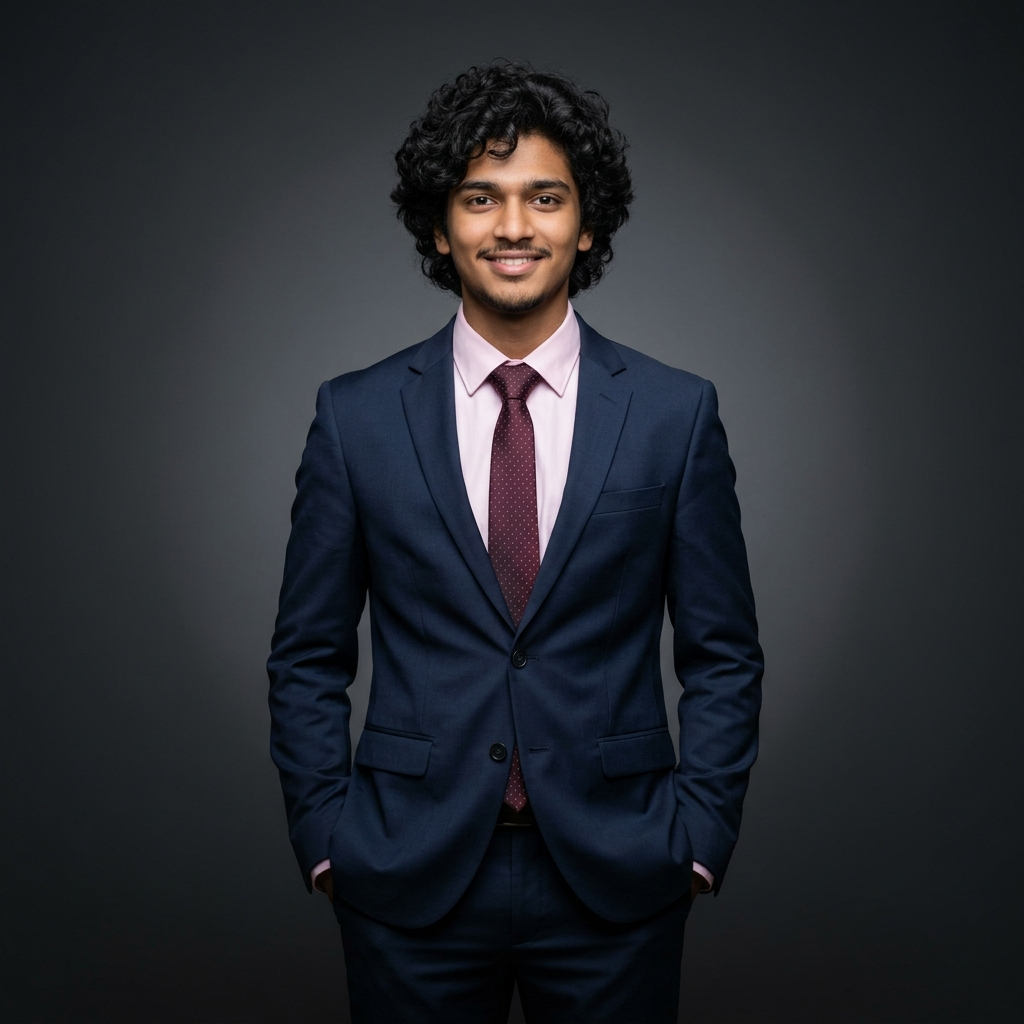
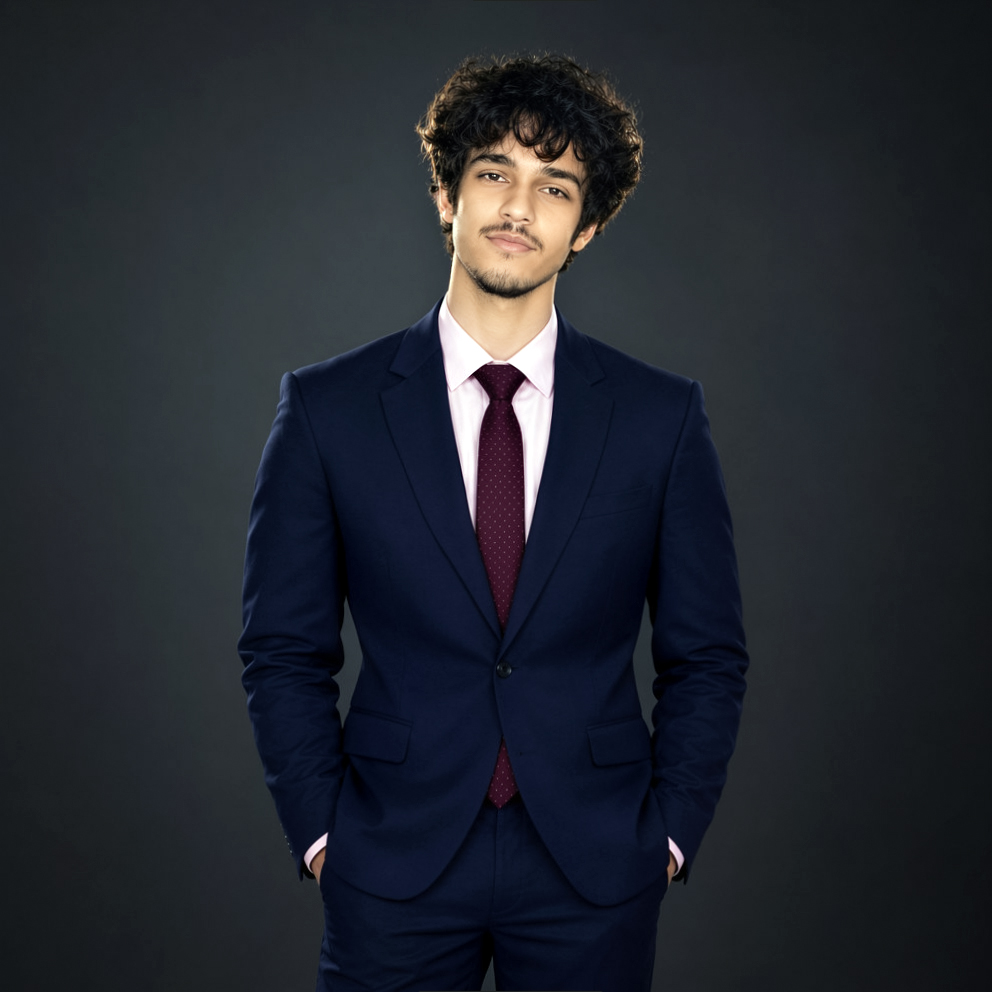
Deploy updated portfolio on GitHub Pages

diff --git a/src/data/portfolioData.ts b/src/data/portfolioData.ts
@@ -1,3 +1,10 @@
+import portraitPhoto from '../assets/images/abhilash_current.jpg';
+import awsBuilderQrCode from '../assets/images/tachyons-QR-Code.png';
+import genAiStudioImage from '../assets/images/project_genai_studio_1791967761930.jpg';
+import kubernetesCloudImage from '../assets/images/project_k8s_cloud_1791967799777.jpg';
+import cloudAiPlatformImage from '../assets/images/hero_cloud_ai_platform_1791967729104.jpg';
+import planetaryHeroImage from '../assets/images/edolus_planetary_hero_1791967604420.jpg';
+
 export interface ProjectMetric {
   label: string;
   value: string;
@@ -78,9 +85,9 @@ export const CANDIDATE_PROFILE = {
   discord: 'https://discord.com/users/abhilash_sharma',
   driveCertificatesUrl: 'https://drive.google.com/drive/folders/1fuoLPn7N7EWP_vgUtfDn56Ykh1rb-Okm?usp=sharing',
   status: 'Available for Immediate Senior / Staff Opportunities',
-  avatarPhoto: '/src/assets/images/abhilash_current.jpg',
+  avatarPhoto: portraitPhoto,
   awsBuilderUrl: 'https://community.aws/@tachyons',
-  awsBuilderQrCode: '/src/assets/images/tachyons-QR-Code.png',
+  awsBuilderQrCode,
   bio: 'Senior full-stack systems engineer and AI solutions architect with verified multi-cloud mastery across Google Cloud Platform (Vertex AI, GKE, Gemini API) and Microsoft Azure (Azure OpenAI, AI Search, Document Intelligence). Proven track record delivering production agentic pipelines, high-availability microservices, and kinetic motion-rich user experiences with zero layout shifts.',
   stats: [
     { label: 'Cloud & AI Certifications', value: '45+' },
@@ -258,7 +265,7 @@ export const PROJECTS: Project[] = [
       { label: 'Token Throughput', value: '38k t/s' },
       { label: 'Median Response Time', value: '142ms' }
     ],
-    image: '/src/assets/images/project_genai_studio_1791967761930.jpg',
+    image: genAiStudioImage,
     githubUrl: 'https://github.com/ABHILASH9519',
     architectureDiagram: 'Client React UI ⇄ Fast Gateway ⇄ Agent Orchestrator ⇄ Vertex AI / Azure Search ⇄ Vector DB Cache',
     systemBreakdown: {
@@ -287,7 +294,7 @@ export const PROJECTS: Project[] = [
       { label: 'Cross-Cloud Failover', value: '< 2.4s' },
       { label: 'Microservices Managed', value: '32 Services' }
     ],
-    image: '/src/assets/images/project_k8s_cloud_1791967799777.jpg',
+    image: kubernetesCloudImage,
     githubUrl: 'https://github.com/ABHILASH9519',
     architectureDiagram: 'Cloudflare Anycast ⇄ Multi-Region Load Balancer ⇄ GKE Cluster (US) + AKS Cluster (EU) ⇄ Distributed KV Store',
     systemBreakdown: {
@@ -316,7 +323,7 @@ export const PROJECTS: Project[] = [
       { label: 'Extraction Precision', value: '98.8%' },
       { label: 'Manual Effort Reduction', value: '82%' }
     ],
-    image: '/src/assets/images/hero_cloud_ai_platform_1791967729104.jpg',
+    image: cloudAiPlatformImage,
     githubUrl: 'https://github.com/ABHILASH9519',
     systemBreakdown: {
       overview: 'Manual processing of legal contracts and shipping manifests was bottlenecking warehouse turnaround times.',
@@ -344,7 +351,7 @@ export const PROJECTS: Project[] = [
       { label: 'Layout Shift (CLS)', value: '0.00' },
       { label: 'Interaction Latency', value: '< 8ms' }
     ],
-    image: '/src/assets/images/edolus_planetary_hero_1791967604420.jpg',
+    image: planetaryHeroImage,
     githubUrl: 'https://github.com/ABHILASH9519',
     systemBreakdown: {
       overview: 'Standing out on competitive hiring boards requires palpable proof of design craft, motion sensibility, and systems architecture.',

diff --git a/src/components/CinematicStoryEngine.tsx b/src/components/CinematicStoryEngine.tsx
@@ -2,6 +2,10 @@ import React, { useRef } from 'react';
 import { motion, useScroll, useTransform, useSpring } from 'motion/react';
 import { soundFx } from '../utils/audio';
 import { Orbit, Play, ArrowDown, ChevronDown } from 'lucide-react';
+import planetaryHeroImage from '../assets/images/edolus_planetary_hero_1791967604420.jpg';
+import cloudAiPlatformImage from '../assets/images/hero_cloud_ai_platform_1791967729104.jpg';
+import computeCoreImage from '../assets/images/edolus_compute_core_1791967674635.jpg';
+import carCockpitImage from '../assets/images/edolus_car_cockpit_1791967703166.jpg';
 
 interface CinematicStoryEngineProps {
   onInitiateSystem: () => void;
@@ -58,7 +62,7 @@ export const CinematicStoryEngine: React.FC<CinematicStoryEngineProps> = ({
             className="absolute inset-0 -z-10 overflow-hidden will-change-transform"
           >
             <img
-              src="/src/assets/images/edolus_planetary_hero_1791967604420.jpg"
+              src={planetaryHeroImage}
               alt="Planetary Scale - Intelligence from Edge of Atmosphere"
               className="w-full h-full object-cover object-center"
             />
@@ -121,7 +125,7 @@ export const CinematicStoryEngine: React.FC<CinematicStoryEngineProps> = ({
             className="absolute inset-0 -z-10 overflow-hidden will-change-transform"
           >
             <img
-              src="/src/assets/images/hero_cloud_ai_platform_1791967729104.jpg"
+              src={cloudAiPlatformImage}
               alt="Orbital Edge AI Nodes"
               className="w-full h-full object-cover filter brightness-90"
             />
@@ -169,7 +173,7 @@ export const CinematicStoryEngine: React.FC<CinematicStoryEngineProps> = ({
             className="absolute inset-0 -z-10 overflow-hidden will-change-transform"
           >
             <img
-              src="/src/assets/images/edolus_compute_core_1791967674635.jpg"
+              src={computeCoreImage}
               alt="Compute Core NVX Datacenter"
               className="w-full h-full object-cover"
             />
@@ -215,7 +219,7 @@ export const CinematicStoryEngine: React.FC<CinematicStoryEngineProps> = ({
             className="absolute inset-0 -z-10 overflow-hidden will-change-transform"
           >
             <img
-              src="/src/assets/images/edolus_car_cockpit_1791967703166.jpg"
+              src={carCockpitImage}
               alt="Autonomous Deployment Cockpit"
               className="w-full h-full object-cover"
             />

diff --git a/vite.config.ts b/vite.config.ts
@@ -5,6 +5,7 @@ import {defineConfig} from 'vite';
 
 export default defineConfig(() => {
   return {
+    base: '/Portfolio/',
     plugins: [react(), tailwindcss()],
     resolve: {
       alias: {
